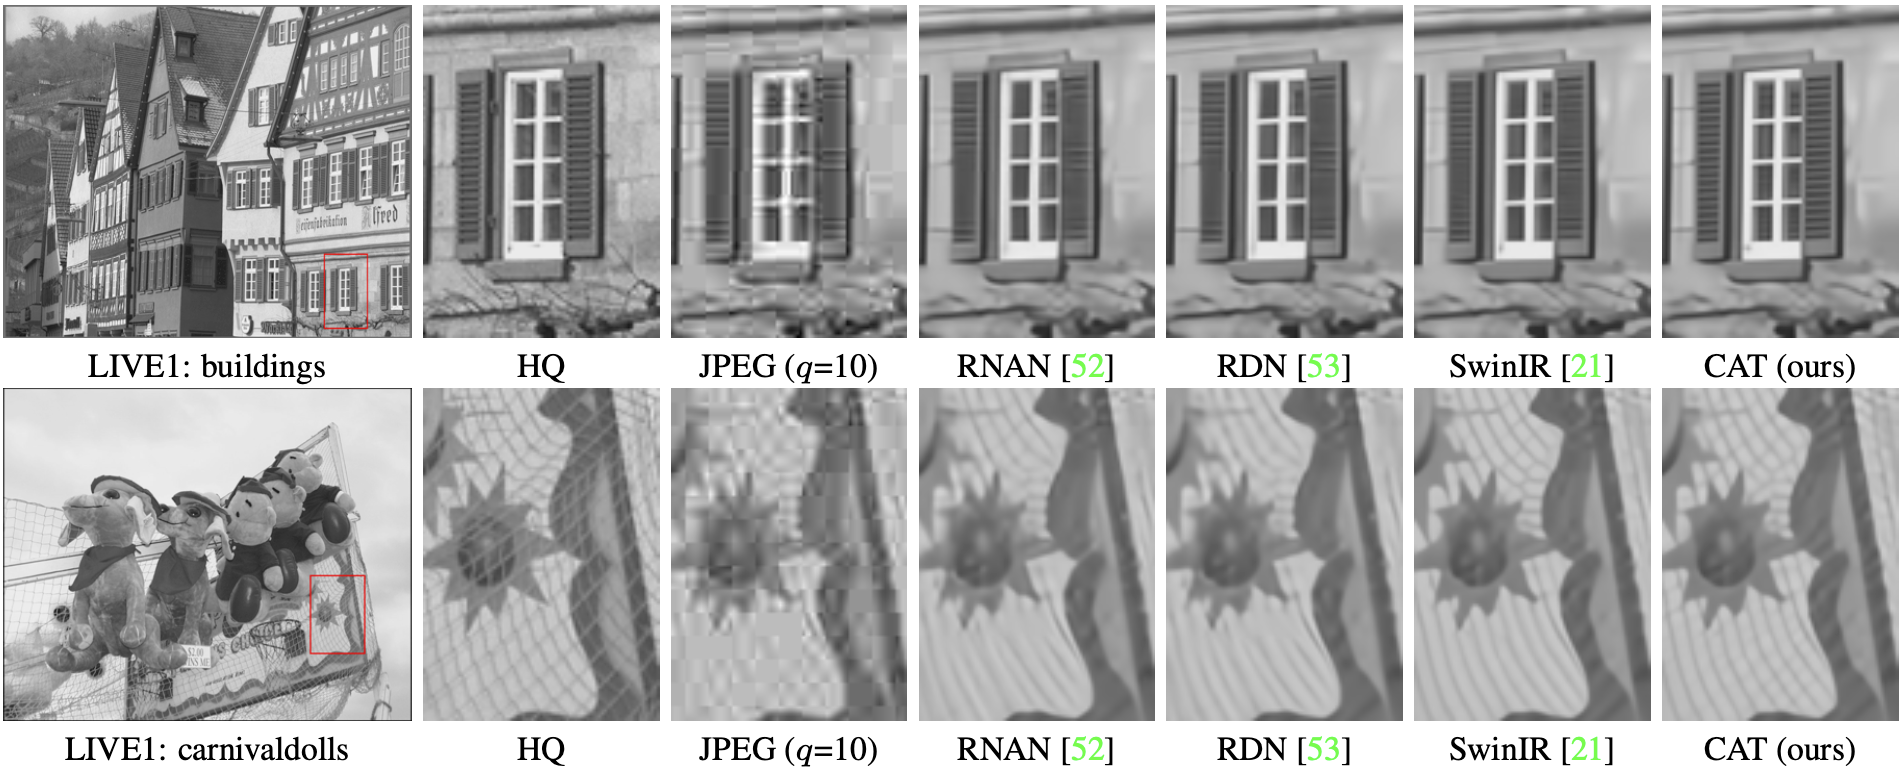
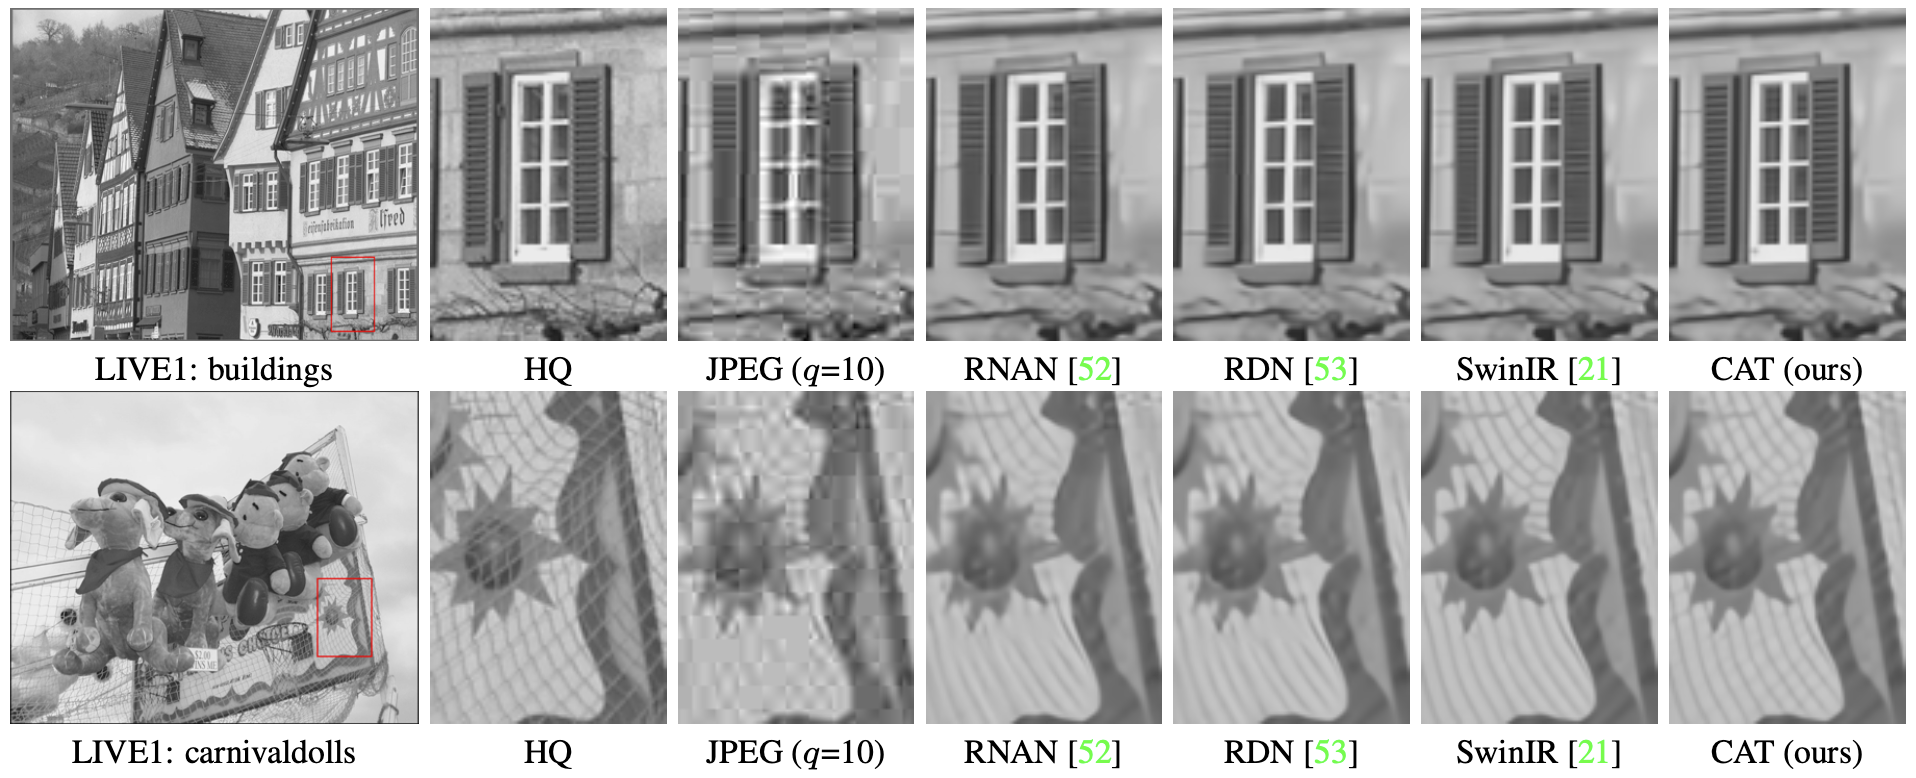
Update visual comparisons

diff --git a/README.md b/README.md
@@ -14,10 +14,10 @@ Zheng Chen, [Yulun Zhang](http://yulunzhang.com/), [Jinjin Gu](https://www.jason
 
 ---
 
-|                        SR (x4)                        |                       HQ                       |                         LQ                          |  [SwinIR](https://github.com/JingyunLiang/SwinIR)  |                   CAT (ours)                    |
-| :---------------------------------------------------: | :--------------------------------------------: | :-------------------------------------------------: | :------------------------------------------------: | :---------------------------------------------: |
-| <img src="figs/img_024_x4.png" height=100 width=160/> | <img src="figs/img_024_HR_x4.png" height=100/> | <img src="figs/img_024_Bicubic_x4.png" height=100/> | <img src="figs/img_024_SwinIR_x4.png" height=100/> | <img src="figs/img_024_CAT_x4.png" height=100/> |
-| <img src="figs/img_074_x4.png" height=100 width=160/> | <img src="figs/img_074_HR_x4.png" height=100/> | <img src="figs/img_074_Bicubic_x4.png" height=100/> | <img src="figs/img_074_SwinIR_x4.png" height=100/> | <img src="figs/img_074_CAT_x4.png" height=100/> |
+|                       SR (x4)                        |                      HQ                       |                         LQ                         | [SwinIR](https://github.com/JingyunLiang/SwinIR)  |                   CAT (ours)                   |
+| :--------------------------------------------------: | :-------------------------------------------: | :------------------------------------------------: | :-----------------------------------------------: | :--------------------------------------------: |
+| <img src="figs/img_024_x4.png" height=80 width=110/> | <img src="figs/img_024_HR_x4.png" height=80/> | <img src="figs/img_024_Bicubic_x4.png" height=80/> | <img src="figs/img_024_SwinIR_x4.png" height=80/> | <img src="figs/img_024_CAT_x4.png" height=80/> |
+| <img src="figs/img_074_x4.png" height=80 width=110/> | <img src="figs/img_074_HR_x4.png" height=80/> | <img src="figs/img_074_Bicubic_x4.png" height=80/> | <img src="figs/img_074_SwinIR_x4.png" height=80/> | <img src="figs/img_074_CAT_x4.png" height=80/> |
 
 ## Dependencies
 
